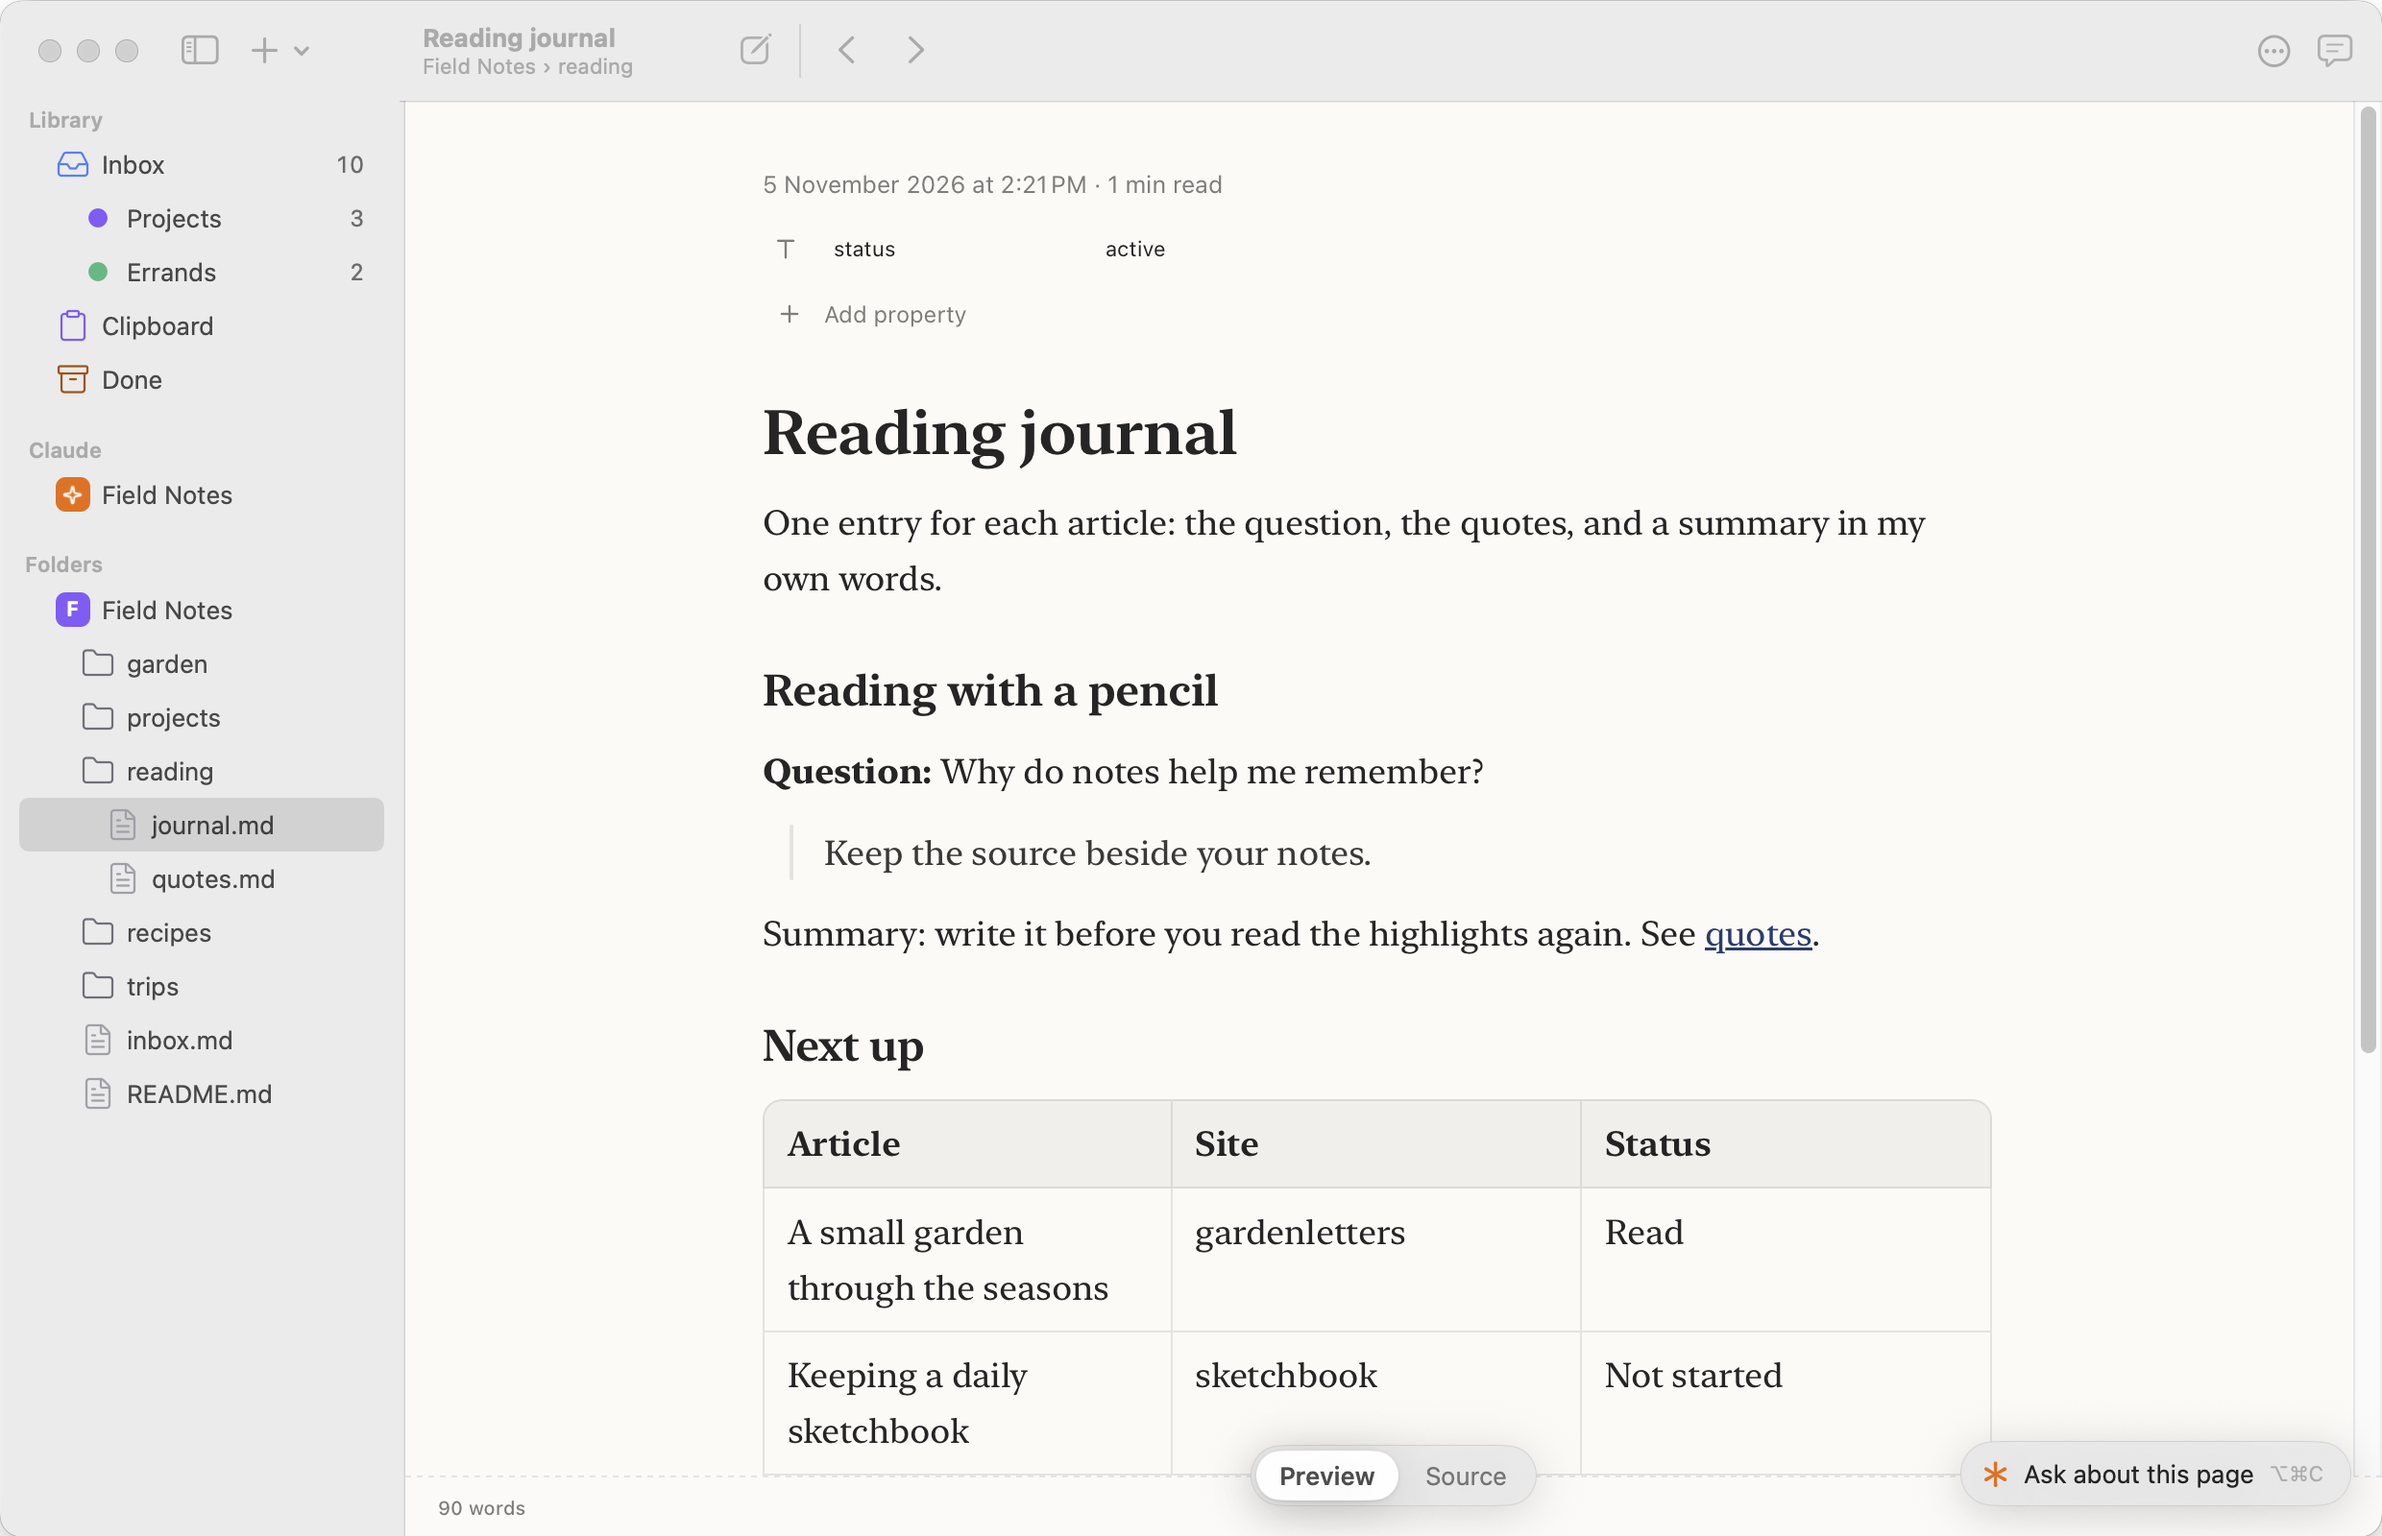
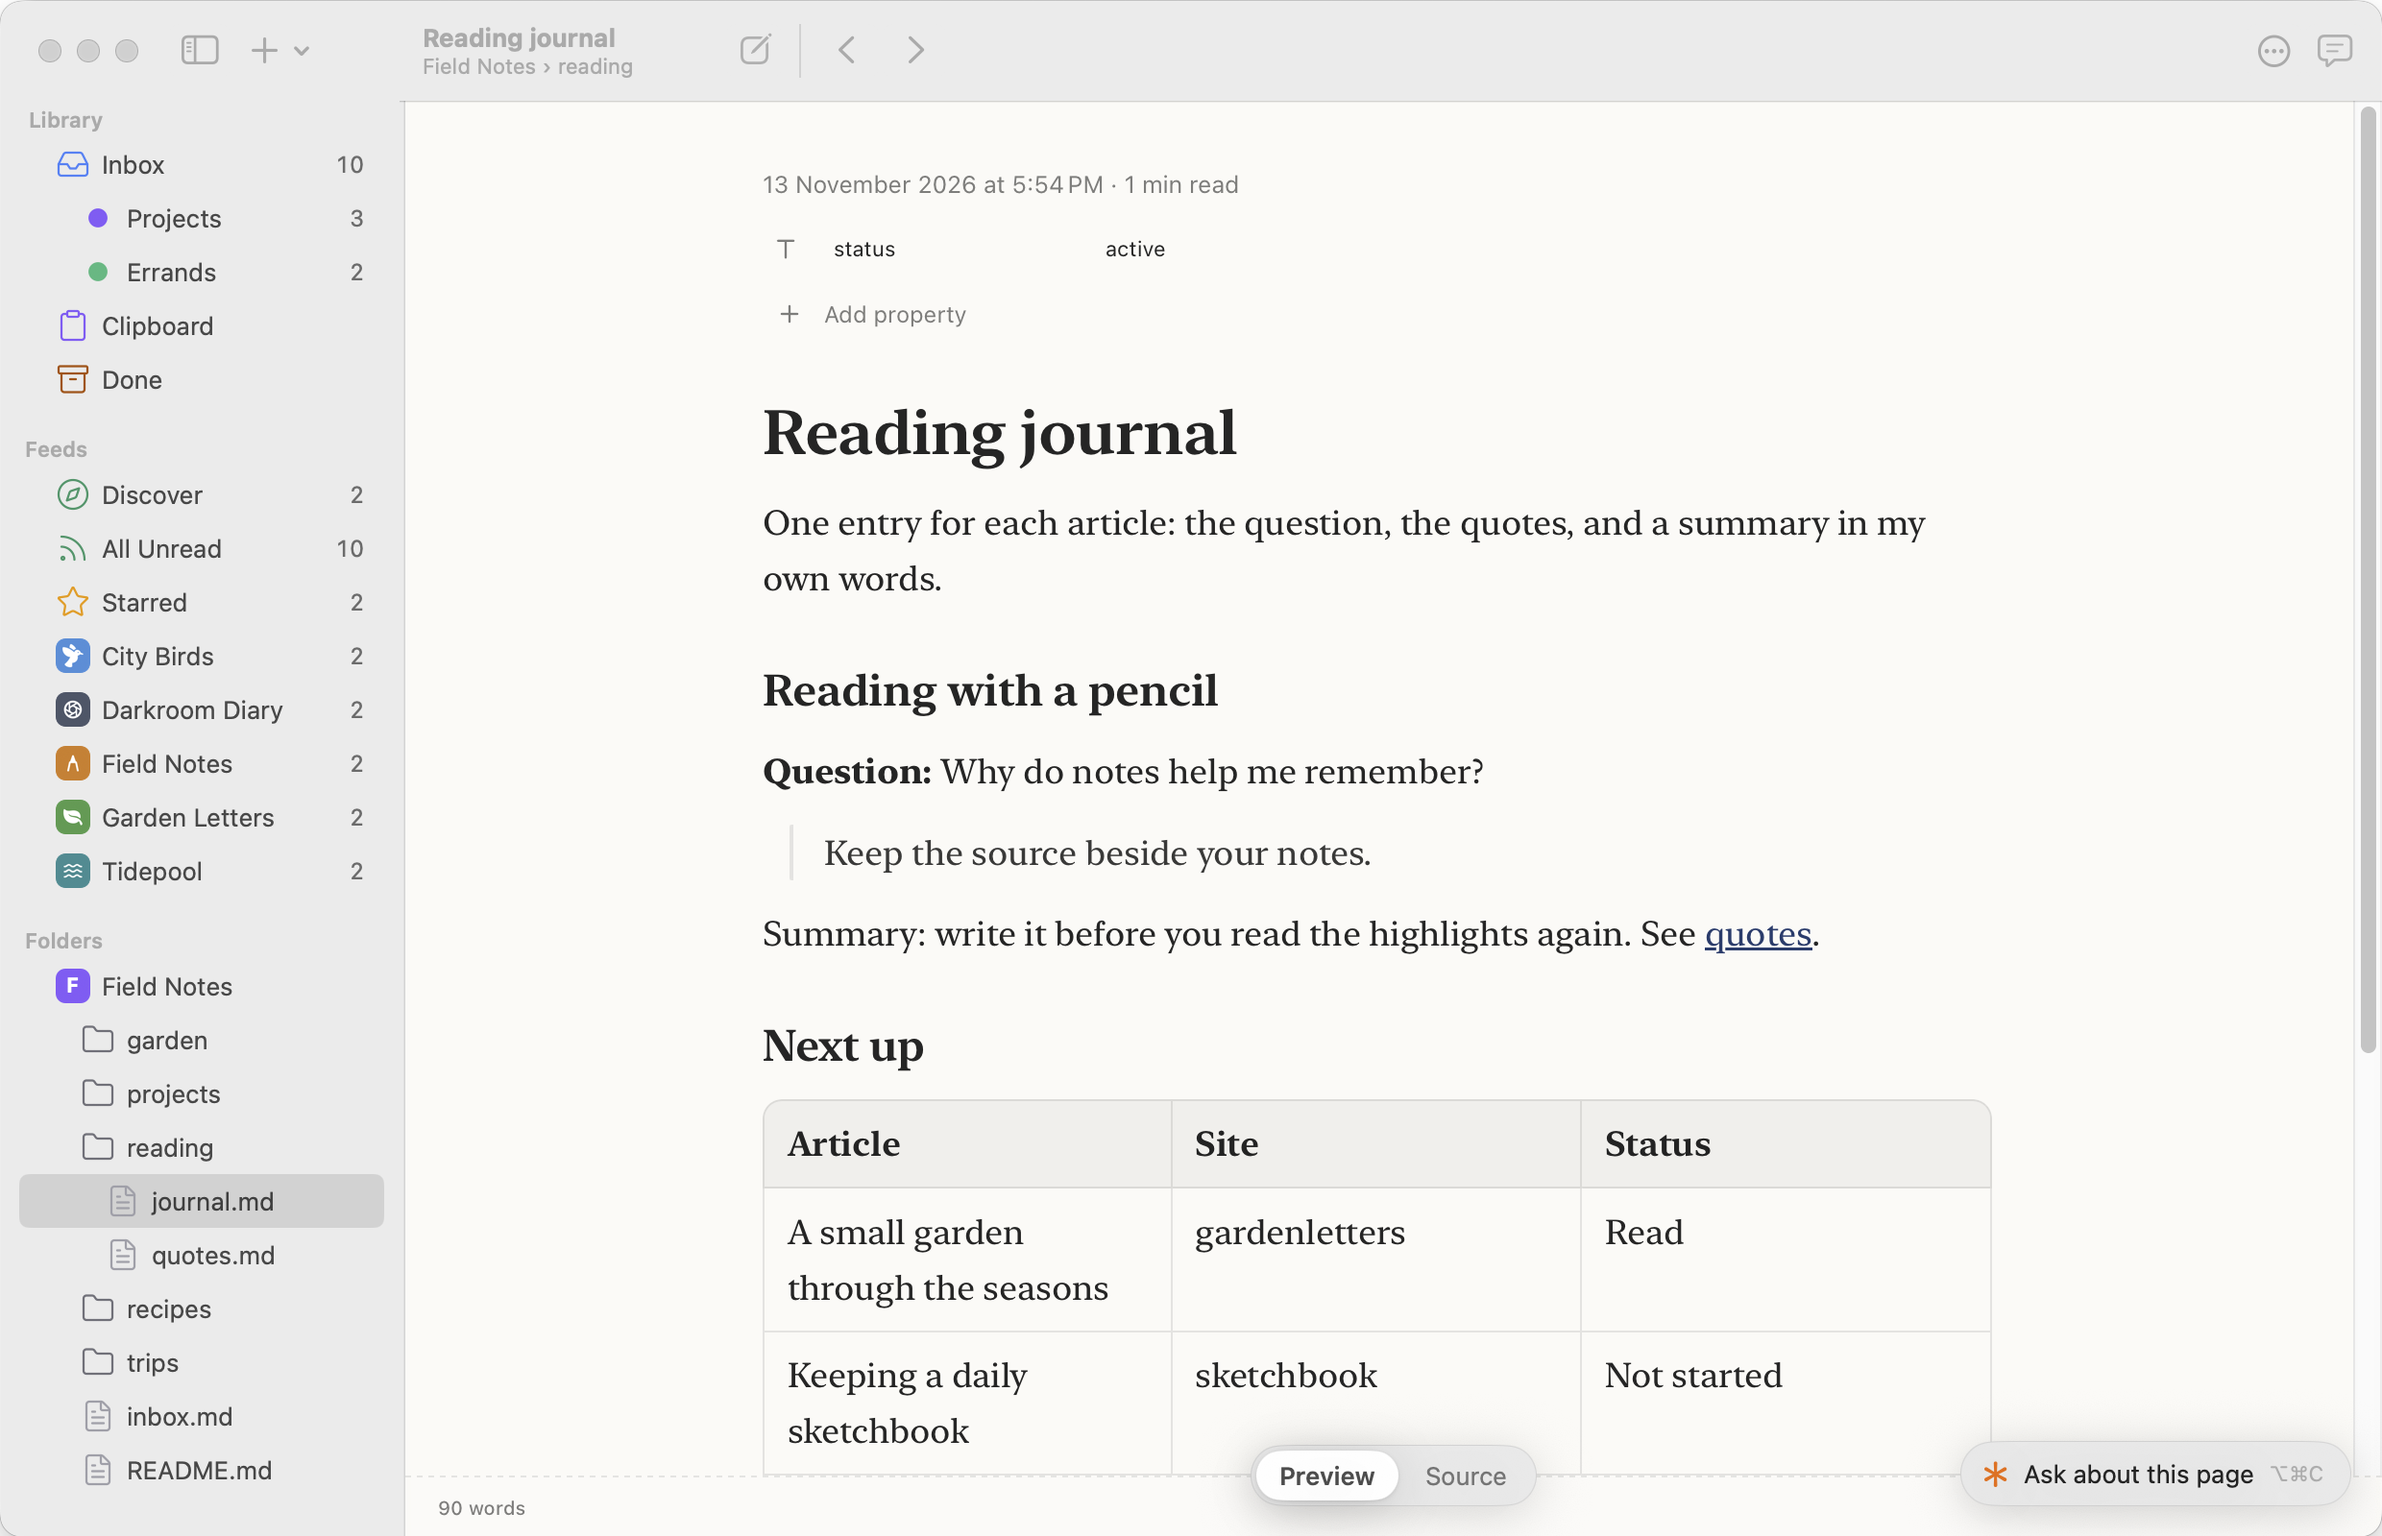
Refresh the screenshots with feeds and fictional data
Retake the hero, main window, session, and capture panel images without the brief. Add a Feeds screenshot to the README and the Feeds guide, and render the social images again. Make qa.sh stop work when no screenshot exists.

Changed region(s): [[0.0, 0.2812, 0.1863, 0.9688], [0.3105, 0.0938, 0.5278, 0.125]]

diff --git a/README.md b/README.md
@@ -4,7 +4,7 @@ Piper is a native macOS application for capturing text. It saves selected text a
 
 Capture and browsing need no account, cloud service, telemetry, or network connection. Feeds connect only to the sites that you subscribe to or that Discover checks. Notes stay in a local SQLite database. Wiki files stay on disk as they are. The web reader connects to the pages you open.
 
-![Piper Inbox with brief picks, and a fictional article with highlights and notes in the Reader tab](docs/images/hero.jpg)
+![The Piper Inbox, and a fictional article with highlights and notes in the Reader tab](docs/images/hero.jpg)
 
 The screenshots use fictional articles, notes, and conversations in an isolated local database.
 
@@ -65,9 +65,11 @@ Both windows use the system font and colors, with one blue accent. Both follow t
 
 The sidebar of the main window shows Inbox, the clipboard history, your feeds, and your folders. A folder opens as a tree, and each file shows its extension. Inbox lists your captures. [Feeds](docs/guides/feeds.md) holds your RSS subscriptions and Discover, which finds feeds on the sites of your browser history.
 
+![The Feeds group with fictional sites and their icons, and an article in the Reader tab](docs/images/feeds.png)
+
 ![The Piper main window with a reading journal open from a fictional Field Notes folder](docs/images/main-window.png)
 
-<img src="docs/images/capture-panel.png" alt="The Piper capture panel with brief picks, fictional notes, article links, highlights, and clipboard texts" width="360">
+<img src="docs/images/capture-panel.png" alt="The Piper capture panel with fictional notes, article links, highlights, and clipboard texts" width="360">
 
 ## Highlights And Notes
 

diff --git a/docs/release/readiness.md b/docs/release/readiness.md
@@ -37,7 +37,6 @@ Acceptance: each window restores its own state, saved notes survive a restart, a
 - [ ] Decide whether Piper needs a Create Wiki action. `Vault.create()` has no caller.
 - [ ] Import a real NetNewsWire `Subscriptions.opml`, and make sure that each feed refreshes.
 - [ ] Run Discover in the built app with Safari history, and make sure that Settings > Feeds shows Open Privacy Settings while Piper has no Full Disk Access.
-- [ ] Take the hero and capture panel screenshots again. They still show the picks of the old brief.
 - [ ] Measure if agent sessions get the Full Disk Access of Piper.
 - [ ] While a folder is selected in the sidebar, make a link from the editor select the new file in the tree.
 - [ ] Do the Editing Checks in [validate.md](validate.md) that are not done in the built app: Japanese input, Command-F, and Reload in the conflict bar.

diff --git a/docs/guides/feeds.md b/docs/guides/feeds.md
@@ -48,6 +48,8 @@ If Piper cannot read the NetNewsWire file, give Piper Full Disk Access. You can 
 
 Select a row in the Feeds group. The list pane shows the articles, the newest first. Select an article to read it in the detail pane. The detail pane is the same reader as a link in Inbox. The Reader tab shows the article as clean text, and the Web tab shows the original page.
 
+![A fictional feed with its articles, and an article in the Reader tab](../images/feeds.png)
+
 When you select an article, Piper marks it as read. The article stays in the list until you select another row.
 
 | Key | Action |
